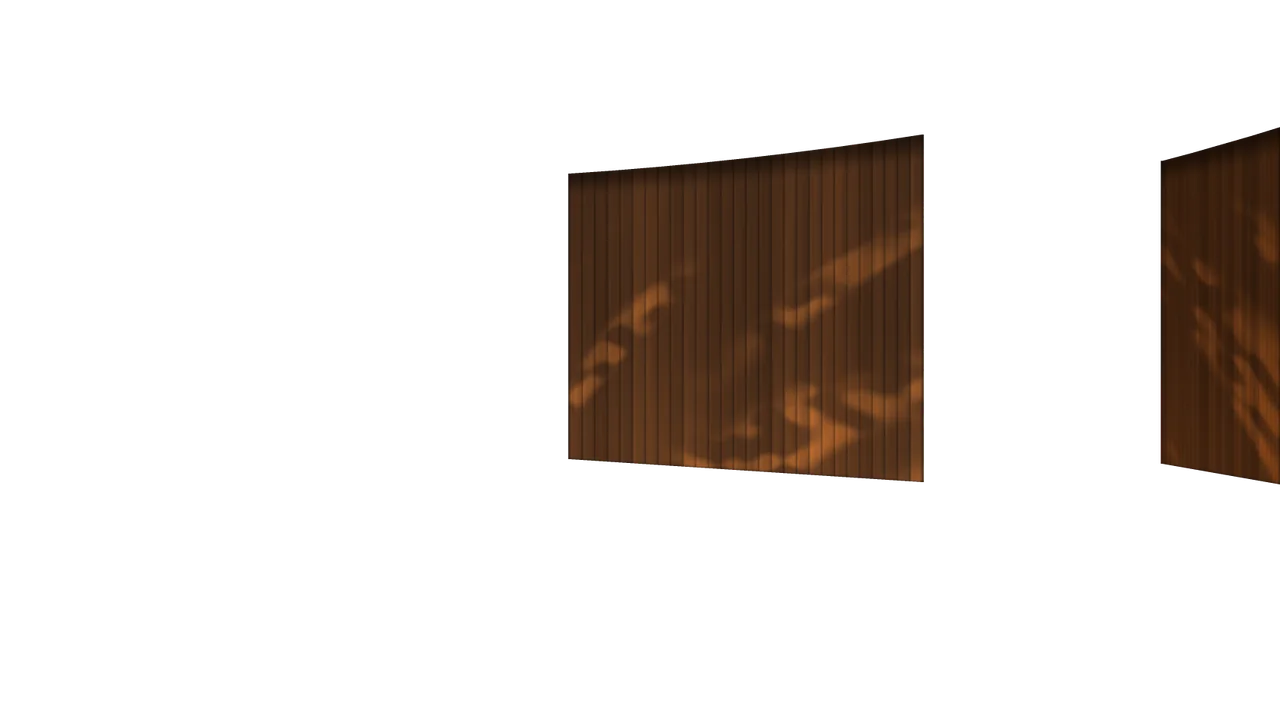
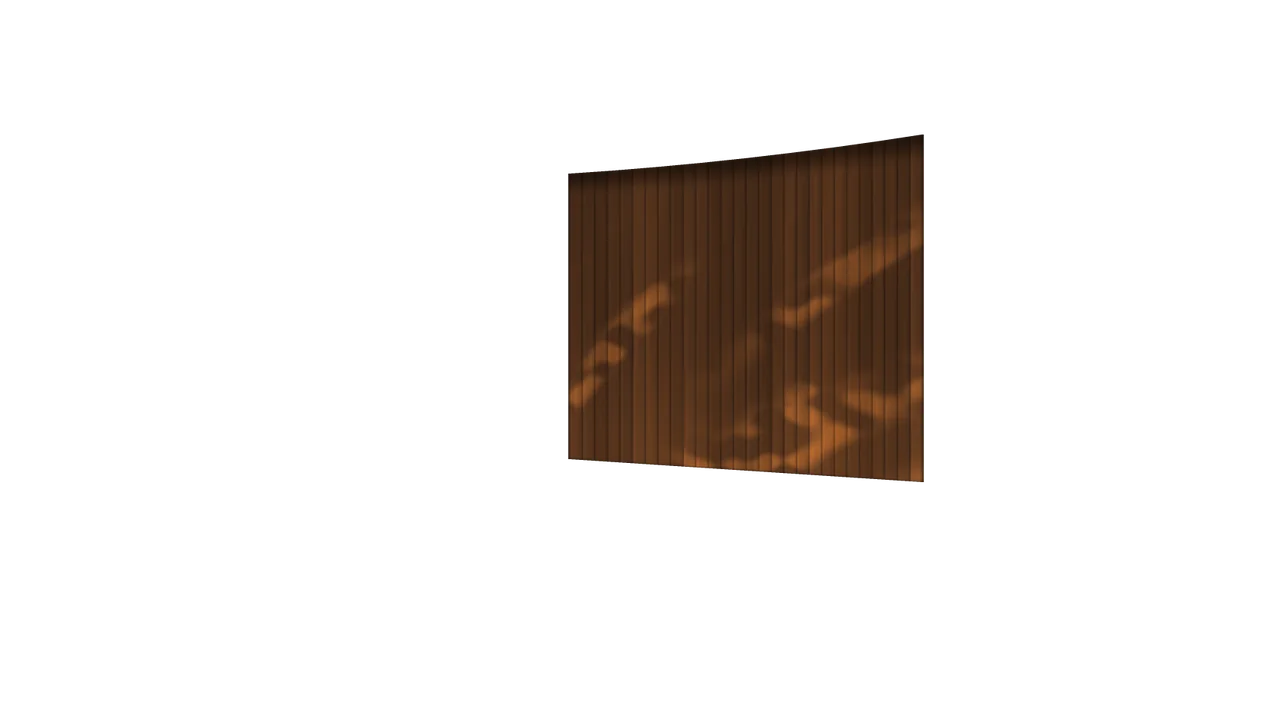
feat(home): end the Kitchen view on the Living view's planter
Owner request, 2026-10-10: the Kitchen view's right end showed the Living
doorway again beside a bare pier, while the Living view has an olive tree
and a rock on that side. The Kitchen's end is now that tree, so the two
views agree.

- The Kitchen plate's right end is the Living plate's left end, mirrored
  (pier on pier). Beyond the pier it is the Living plate itself; the pier
  stays the Kitchen plate's own, with the leaves keyed onto it; the bed
  right of the rock is drawn at half width so the planter ends clear of
  the Kitchen doorway. Nothing left of plate column 1218 changed in the
  master.
- The Kitchen view shows one door: the Living leaf that lay on its right
  end is gone from ATRIUM_ORBIT_DOORS and from the view's door picture.
- No runtime behaviour changed.

check:atrium-orbit-foundation asserts the two plate files are one picture
there, mirrored, with no label left behind the tree and the pier still the
Kitchen plate's; check:atrium-doors asserts the single door. How the
request was read, and the limits, are in
docs/TANPHONG_ATRIUM_ORBIT_IMPLEMENTATION.md §15.10.

Changed region(s): [[0.9062, 0.1833, 1.0, 0.6722]]

diff --git a/components/home/experience/atrium-orbit-doors.ts b/components/home/experience/atrium-orbit-doors.ts
@@ -300,25 +300,11 @@ export const ATRIUM_ORBIT_DOORS: Record<
     { room: 'bathroom', ...OWN.bathroom },
     borrowed('kitchen', 'kitchen', shift(3)),
   ],
-  kitchen: [
-    { room: 'kitchen', ...OWN.kitchen },
-    // The Atrium is round: past the Kitchen stands the Living doorway again,
-    // this plate's own drawing of it.
-    {
-      room: 'living',
-      top: [
-        [1518, 212],
-        [1557, 201.6],
-        [1595, 190.7],
-        [1634, 179.5],
-        [1672, 167.8],
-      ],
-      sill: [
-        [1518, 606],
-        [1672, 633],
-      ],
-    },
-  ],
+  // The Kitchen view ends on the Living view's planter (its olive tree and
+  // rock, laid mirrored on the plate's right end: owner request, 2026-10-10;
+  // work/atrium-orbit/comp-plates/stitch.mjs). The plate's own drawing of the
+  // Living doorway stood there before; this view now shows one door.
+  kitchen: [{ room: 'kitchen', ...OWN.kitchen }],
 };
 
 /** A leaf's outline on its plate, cut where the plate ends: its two sides

diff --git a/docs/TANPHONG_ATRIUM_ORBIT_IMPLEMENTATION.md b/docs/TANPHONG_ATRIUM_ORBIT_IMPLEMENTATION.md
@@ -14,7 +14,8 @@ stops the picture snapping sharper as the pull-back ends and as each move
 begins and ends (§15.3). STEP 2B (2026-10-08, owner decision) makes this
 orbit, on its comp plates, the homepage's orbit (§15.4). Since 2026-10-09
 (owner decision) the rooms stand behind closed doors, and a room is entered
-by choosing its door (§15.9).** None of the
+by choosing its door (§15.9). Since 2026-10-10 the Kitchen view ends on the
+Living view's planter (§15.10).** None of the
 approved render plates and no camera data exist yet. Until STEP 2B the
 production homepage ran the approved Scene 3 with the portal orbit
 (`aa9ae55`) and Tier B code loaded only in development or a preview build,
@@ -868,6 +869,55 @@ own.
 - Before the Atrium becomes interactive (the base story's own gate, story 0.895) a door cannot be chosen, though the doorways are in view and shut from about 0.77 on. At 1440 × 900 the camera comes to rest (0.88) 64 px of scroll before that gate, and has been moving slowly (from 0.85) for about 250 px before it.
 - Not measured: Safari, Firefox, a real phone or tablet. The pictures are drawn at the comp plates' size (1672 px wide), so a leaf is as soft as its plate when the camera closes in.
 - No hover response on a door beyond the pointer cursor.
+
+### 15.10 The Kitchen view ends on the Living view's planter
+
+Owner request, 2026-10-10, with four frames of the live site: the Living
+view and its left end (the olive tree and the rock, "very OK"); the Kitchen
+view, which "has the Living room at its end", and that end close up (the
+Living doorway again, beside a bare pier). Asked that this space be the tree
+as in the Living view, so that the two agree.
+
+**How it was read.** The request can be read two ways. Built: the right end
+of the Kitchen view is the tree, in place of the Living doorway that stood
+there. The other reading keeps that doorway in view beside the tree; with
+the tree standing where the Living plate has it, the doorway is behind it
+either way.
+
+**What changed: one picture.** The Kitchen plate's right end
+(`work/atrium-orbit/comp-plates/stitch.mjs`, `planter`; outside Git, writes
+the runtime files). No runtime code moves anything differently.
+
+- The Kitchen plate's right end is the Living plate's left end, mirrored: column x of the Kitchen plate is column 1820 − x of the Living plate. That lays the pier left of the Living doorway (375 to 557) on the pier right of the Kitchen doorway (1263 to 1445); they are the same width.
+- **Beyond the pier the Kitchen plate is the Living plate**: its fluted jamb, the wall behind the tree, the tree, the rock, the rim. The plate's own drawing of the Living doorway, and its "01 Living" label, are gone from there.
+- **The pier stays the Kitchen plate's own**, with its own light. The Living plate's sprays of leaves are keyed off their stone (they are dark and olive, the stone is lit) and laid over it, each leaf with the stone behind it taken out.
+- **The bed right of the rock** (shrubs, pebbles, the rim and its end) is drawn at half its width, so the planter ends at about x = 1218: clear of the Kitchen doorway, of its jamb and of the floor that leads to it. At full width it would have reached x = 1012, across the pool's edge.
+- **Nothing left of column 1218 changed** in the lossless master: the Kitchen doorway, its label, its jamb and the floor before it are pixel for pixel what they were. (The WebP files differ slightly everywhere, as an encoder's do when part of a picture changes.)
+- **The Kitchen view shows one door.** `ATRIUM_ORBIT_DOORS.kitchen` no longer lists a Living leaf, and the view's door picture is redrawn without it. Nothing on the planter can be chosen.
+
+**Why mirrored.** Left to right the Living plate's end reads wall, jamb,
+pier, doorway; the Kitchen plate's end reads pier, jamb, doorway. Mirrored,
+the two have the same order, so the pier lies on the pier and the tree leans
+in from the frame's edge, as it does in the Living view. The rock is then lit
+from the left, like the vase in the Kitchen plate.
+
+**Verified** (production-equivalent build, headless Chromium).
+
+- 1680 × 887 at DPR 2 (the owner's screen): the Kitchen hold with its copy, the late hold with the gateway, and the quiet frame of the release. The indicator and the gateway sit on the rock's shaded foot and the rim, and read as before.
+- 1440 × 900 and 2560 × 1080: the same end; 820 × 1180: the sprays and the planter's end at the stage's right edge; 390 × 844: unchanged (the window does not reach the plate's end).
+- The pan from the Bathroom, frames in flight from a wheel flick: the planter comes on with the Kitchen plate, as one picture.
+- Clicks on the tree, the rock and the leaves over the pier do nothing; the Kitchen door still enters `/spaces/kitchen` (1.66 s).
+- `check:atrium-orbit-foundation`: beyond the pier the two plate files are one picture, mirrored (2.0 of 255 apart; 41 before), no label ink is left behind the tree, and the pier is not the Living plate's (46 apart). `check:atrium-doors`: the Kitchen view shows one door, and four places on the planter are no door.
+
+**Limits.**
+
+- It is one tree drawn twice: the Living view's left end and the Kitchen view's right end are the same picture, mirrored. The two are never on the stage together (no pan joins Kitchen to Living).
+- The Kitchen view no longer shows that Living lies beyond it.
+- The bed's shrubs are half as wide as in the Living view. Judged on screen at the sizes above, not measured.
+- The planter covers the lower right of the floor, and with it the last sweep of the breeze line, which now runs behind it.
+- The leaf shadows that the tree casts on the Living plate's pier are not carried over: the Kitchen pier keeps its own light.
+- On desktop the story rail's two inactive labels (01 ARRIVAL, 02 PERSPECTIVE, drawn at 30%) now lie on the rock's lit face and are hard to read there, as they already are over the tree in the Bedroom view. "03 WORLDS" reads.
+- Not seen: Safari, Firefox, a real phone or tablet.
 
 ## 16. Studio handoff and delivery intake (PASS 6A.9)
 

diff --git a/docs/TANPHONG_HOME_MOTION_CONTEXT.md b/docs/TANPHONG_HOME_MOTION_CONTEXT.md
@@ -996,3 +996,14 @@ through the room orbit, and choosing a door opens it and enters the room. Detail
 - **Listeners and writes.** One click listener on the Atrium section (plus `pagehide`, `pageshow` and `popstate` on the window), in `room-door-entry.ts`. No wheel or touch listener, no RAF or timer loop; the Atrium's scroll position is never written. The room's page is put at its top under the cover (the router skips its own reset for some pages, as noted for the World gateway).
 - **The base journey is untouched**: `home-story-timeline.ts` did not change, and `check:lab` and the base-journey digest are as they were.
 - **A correction to the record.** `5b88eec` (the intro's top header removed) changed `home-intro-loader.tsx` while `check:atrium-orbit` still locked that file, so that check failed from that commit on. The lock is re-derived here, with its trail in the check.
+
+## 46. The Kitchen view ends on the Living view's planter (2026-10-10, not deployed)
+
+Owner request: the Kitchen view's right end, which showed the Living doorway
+again beside a bare pier, is to be the olive tree and the rock that stand at
+the Living view's left end. Details, how the request was read, verification
+and limits: `TANPHONG_ATRIUM_ORBIT_IMPLEMENTATION.md` §15.10.
+
+- A change of one picture: the Kitchen plate's right end is the Living plate's left end, mirrored (`work/atrium-orbit/comp-plates/stitch.mjs`, outside Git). Nothing left of plate column 1218 changed.
+- The Kitchen view now shows one door; the Living leaf that lay on its right end is gone from the door data and from the door picture.
+- No motion, timing, listener or scroll behaviour changed. The homepage's runtime code differs only in the Kitchen entry of `ATRIUM_ORBIT_DOORS`.
